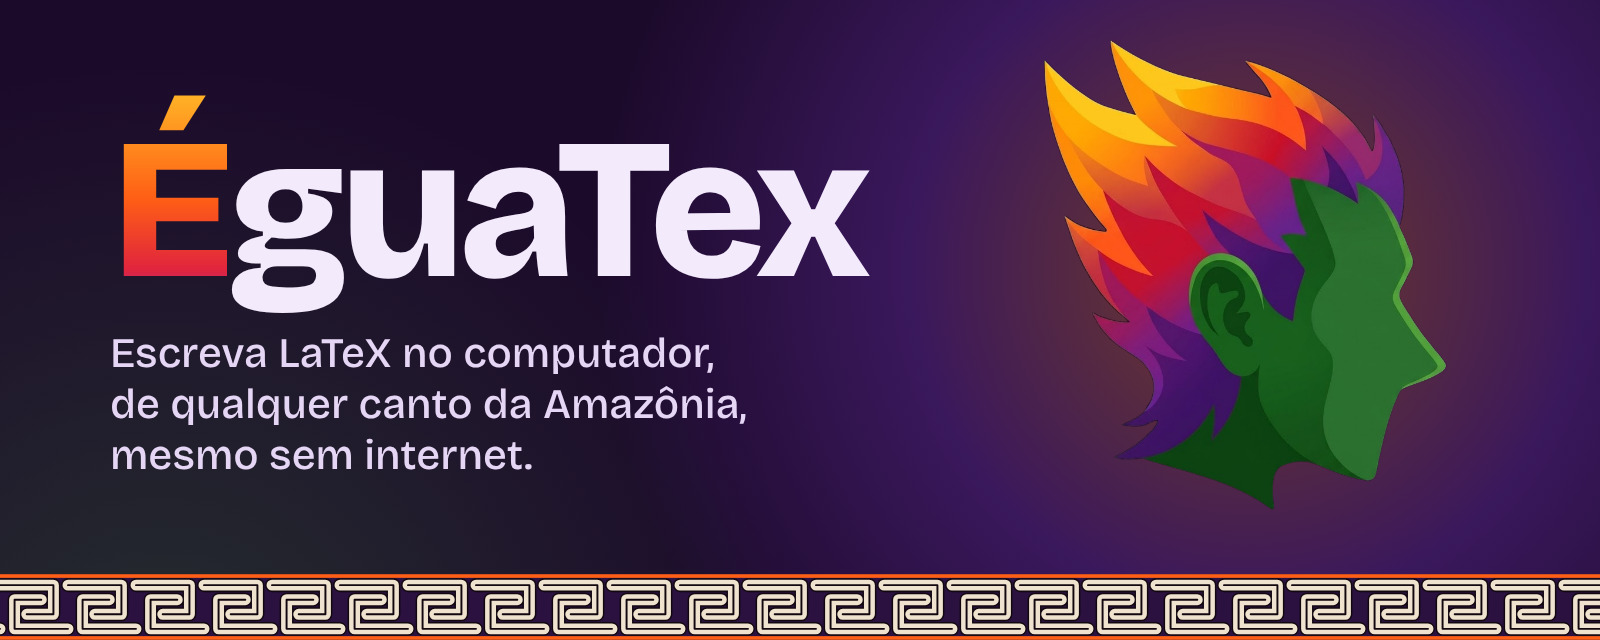
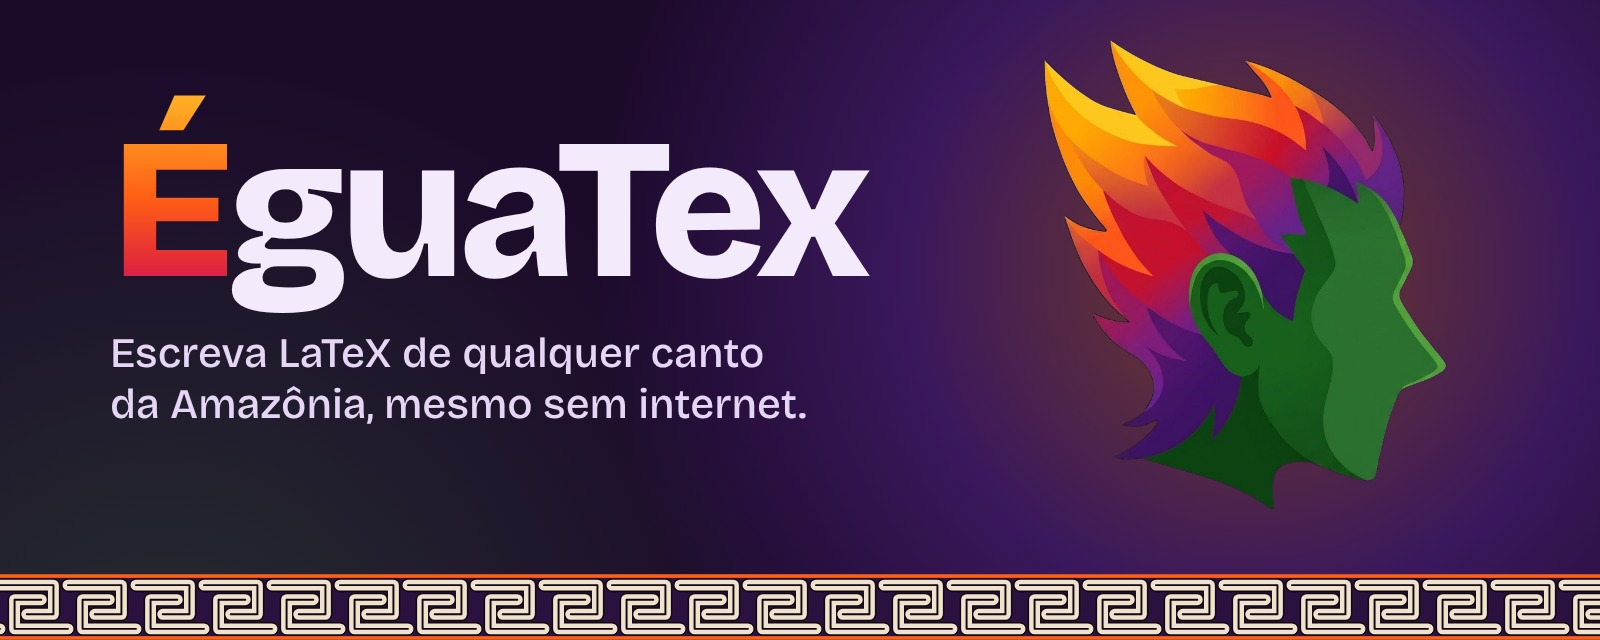
Atualiza a capa do README com a frase atual do site

diff --git a/assets/js/main.js b/assets/js/main.js
@@ -1,8 +1,8 @@
-// ÉguaTex: editor de fórmulas ao vivo e busca da versão mais recente do instalador para Windows.
+// ÉguaTex: editor de fórmulas ao vivo e busca da versão mais recente do instalador.
 
 const REPO = "egua-tex/egua-tex.github.io";
 
-/* ---------------- Fogueira: LaTeX ao vivo ---------------- */
+/* ---------------- Experimente: LaTeX ao vivo ---------------- */
 const EXEMPLOS = {
   bhaskara: "x = \\frac{-b \\pm \\sqrt{b^2 - 4ac}}{2a}",
   gauss: "\\int_{-\\infty}^{\\infty} e^{-x^2}\\,dx = \\sqrt{\\pi}",

diff --git a/README.md b/README.md
@@ -1,6 +1,6 @@
 <p align="center">
   <a href="https://egua-tex.github.io/">
-    <img src="assets/img/banner.jpg" alt="ÉguaTex: Escreva LaTeX no computador, de qualquer canto da Amazônia, mesmo sem internet. Ao lado, a logo do curupira de pele verde e cabelo em chamas." width="100%">
+    <img src="assets/img/banner.jpg" alt="ÉguaTex: Escreva LaTeX de qualquer canto da Amazônia, mesmo sem internet. Ao lado, a logo do curupira de pele verde e cabelo em chamas." width="100%">
   </a>
 </p>
 
